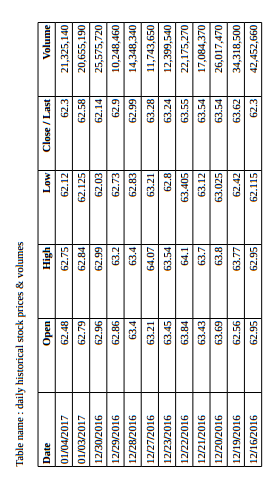
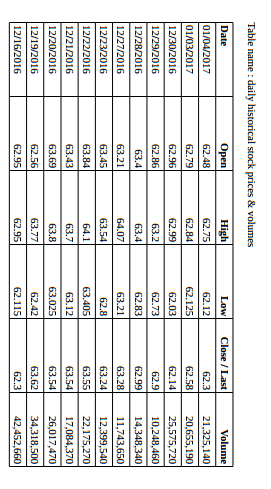
added ImageOrientationChecker.py;

diff --git a/image_processing/rotate_image.py b/image_processing/rotate_image.py
@@ -1,0 +1,37 @@
+from PIL import Image
+import pytesseract
+# Read the image using Pillow
+img = Image.open("/images/extract_data/test.png")
+
+# Check the orientation using Tesseract
+text = pytesseract.image_to_osd(img)
+lines = text.splitlines()
+
+# Variable to track if a horizontal heading is found
+horizontal_heading_found = False
+
+# Iterate through the detected lines
+for line in lines:
+    if "Orientation in degrees" in line:
+        detected_orientation = float(line.split(":")[1].strip())
+    elif "Text: " in line:
+        # Check if the text is horizontal
+        if "Horizontal" in line:
+            horizontal_heading_found = True
+
+# If a horizontal heading is found, the image is likely already horizontal
+if horizontal_heading_found:
+    rotated_img = img
+else:
+    # Rotate the image by 90 degrees
+    if detected_orientation > 0:
+        rotated_img = img.rotate(90, expand=True)
+    else:
+        rotated_img = img.rotate(-90, expand=True)
+
+# Ensure the image is in RGB mode (not RGBA) before saving as JPEG
+if rotated_img.mode == 'RGBA':
+    rotated_img = rotated_img.convert('RGB')
+
+# Save the rotated image as JPEG
+rotated_img.save('rotated.jpg', 'JPEG')

diff --git a/image_processing/image_orientation_checker.py b/image_processing/image_orientation_checker.py
@@ -1,0 +1,26 @@
+from PIL import Image
+import pytesseract
+
+class ImageOrientationChecker:
+    def __init__(self, image_path):
+        self.image = Image.open(image_path)
+        self.orientation = self._check_orientation()
+
+    def _check_orientation(self):
+        text = pytesseract.image_to_osd(self.image)
+        lines = text.splitlines()
+        for line in lines:
+            if "Orientation in degrees" in line:
+                detected_orientation = float(line.split(":")[1].strip())
+                return detected_orientation
+        return 0
+
+    def check_orientation(self):
+        return self.orientation == 0
+
+# Example usage:
+if __name__ == '__main__':
+    image_path = "/Users/vansh/PycharmProjects/Text-Extractor/images/extract_data/test.png"
+    checker = ImageOrientationChecker(image_path)
+    is_horizontal = checker.check_orientation()
+    print("Is horizontal:", is_horizontal)

diff --git a/image_processing/crop_image.py b/image_processing/crop_image.py
@@ -3,7 +3,7 @@ import numpy as np
 import matplotlib.pyplot as plt
 
 
-class ImageProcessor:
+class CropImage:
     def __init__(self, image_path):
         self.image_path = image_path
         self.image = cv2.imread(self.image_path)
@@ -35,9 +35,9 @@ class ImageProcessor:
 
 
 def main():
-    image_path = 'images/extract_data/IMG_9518.jpg'
+    image_path = '../images/extract_data/IMG_9518.jpg'
 
-    image_processor = ImageProcessor(image_path)
+    image_processor = CropImage(image_path)
     image_processor.crop_image_to_largest_contour()
     image_processor.display_cropped_image()
 

diff --git a/image_processing/vertical.py b/image_processing/vertical.py
@@ -39,6 +39,6 @@ class VerticalToHorizontal:
 
 # Example usage:
 if __name__ == '__main__':
-    image_path = "/Users/vansh/PycharmProjects/Text-Extractor/images/extract_data/test.png"
+    image_path = "/images/extract_data/test.png"
     converter = VerticalToHorizontal(image_path)
     converter.save_as_jpeg('rotated.jpg')
